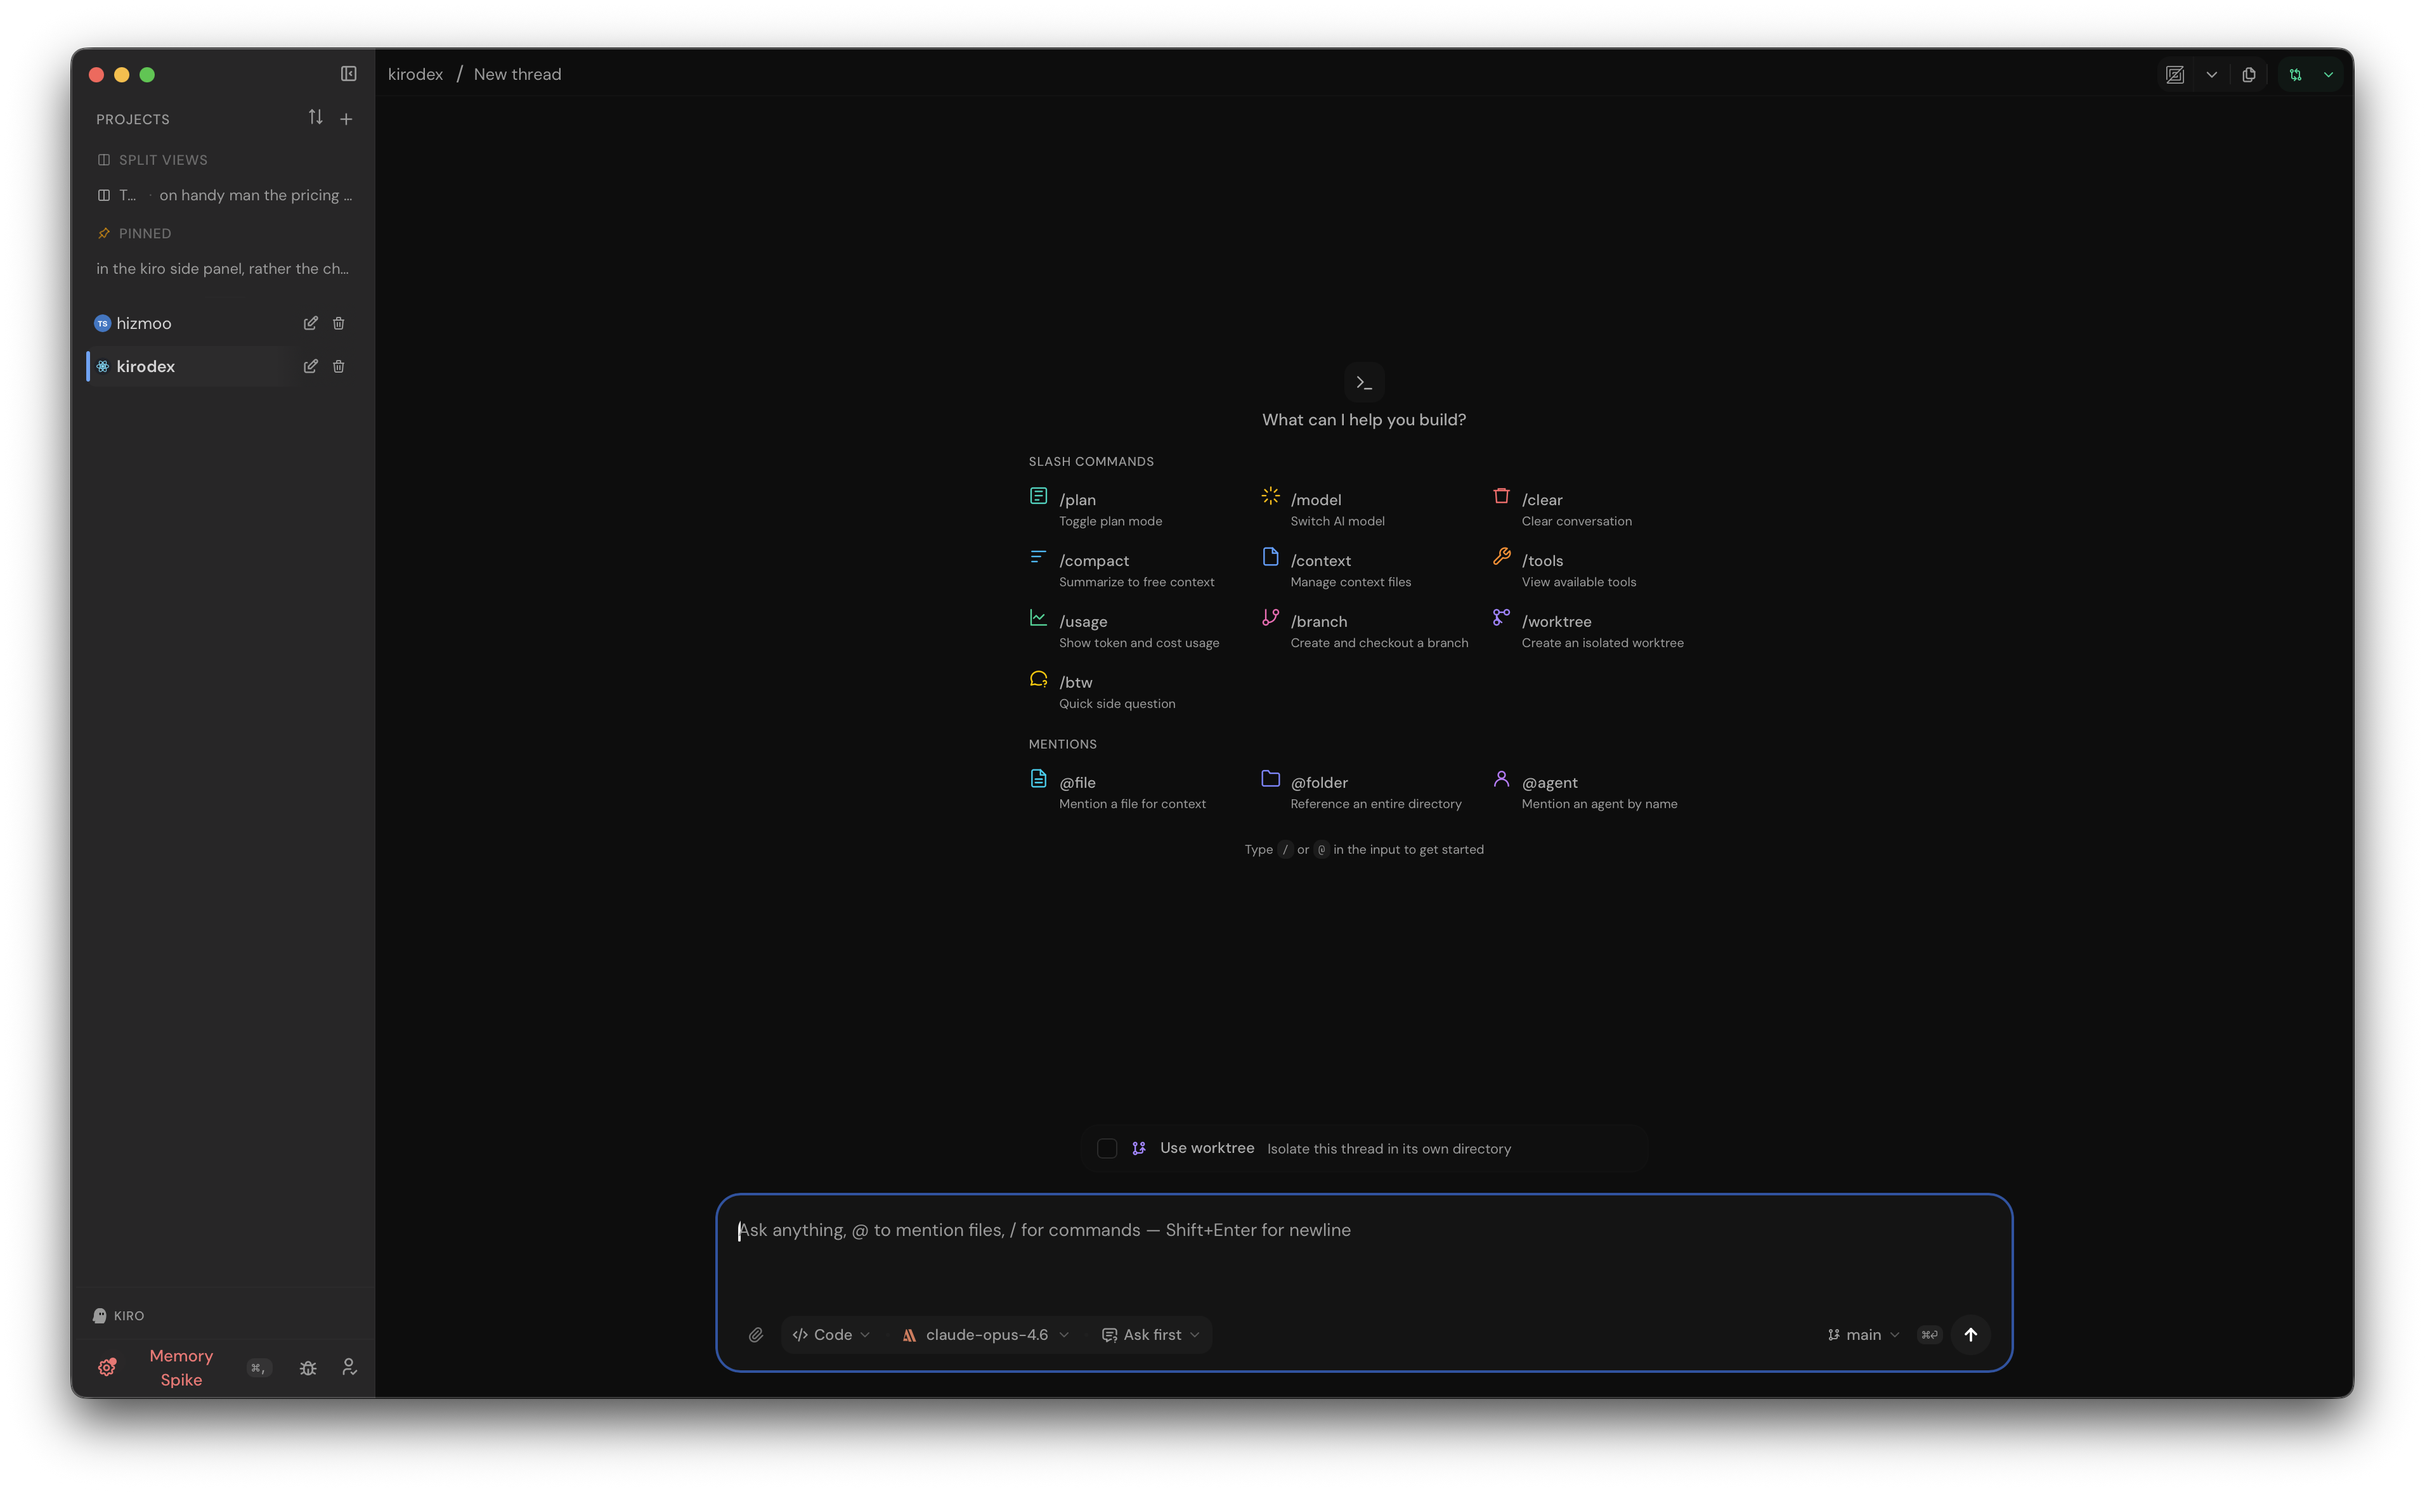
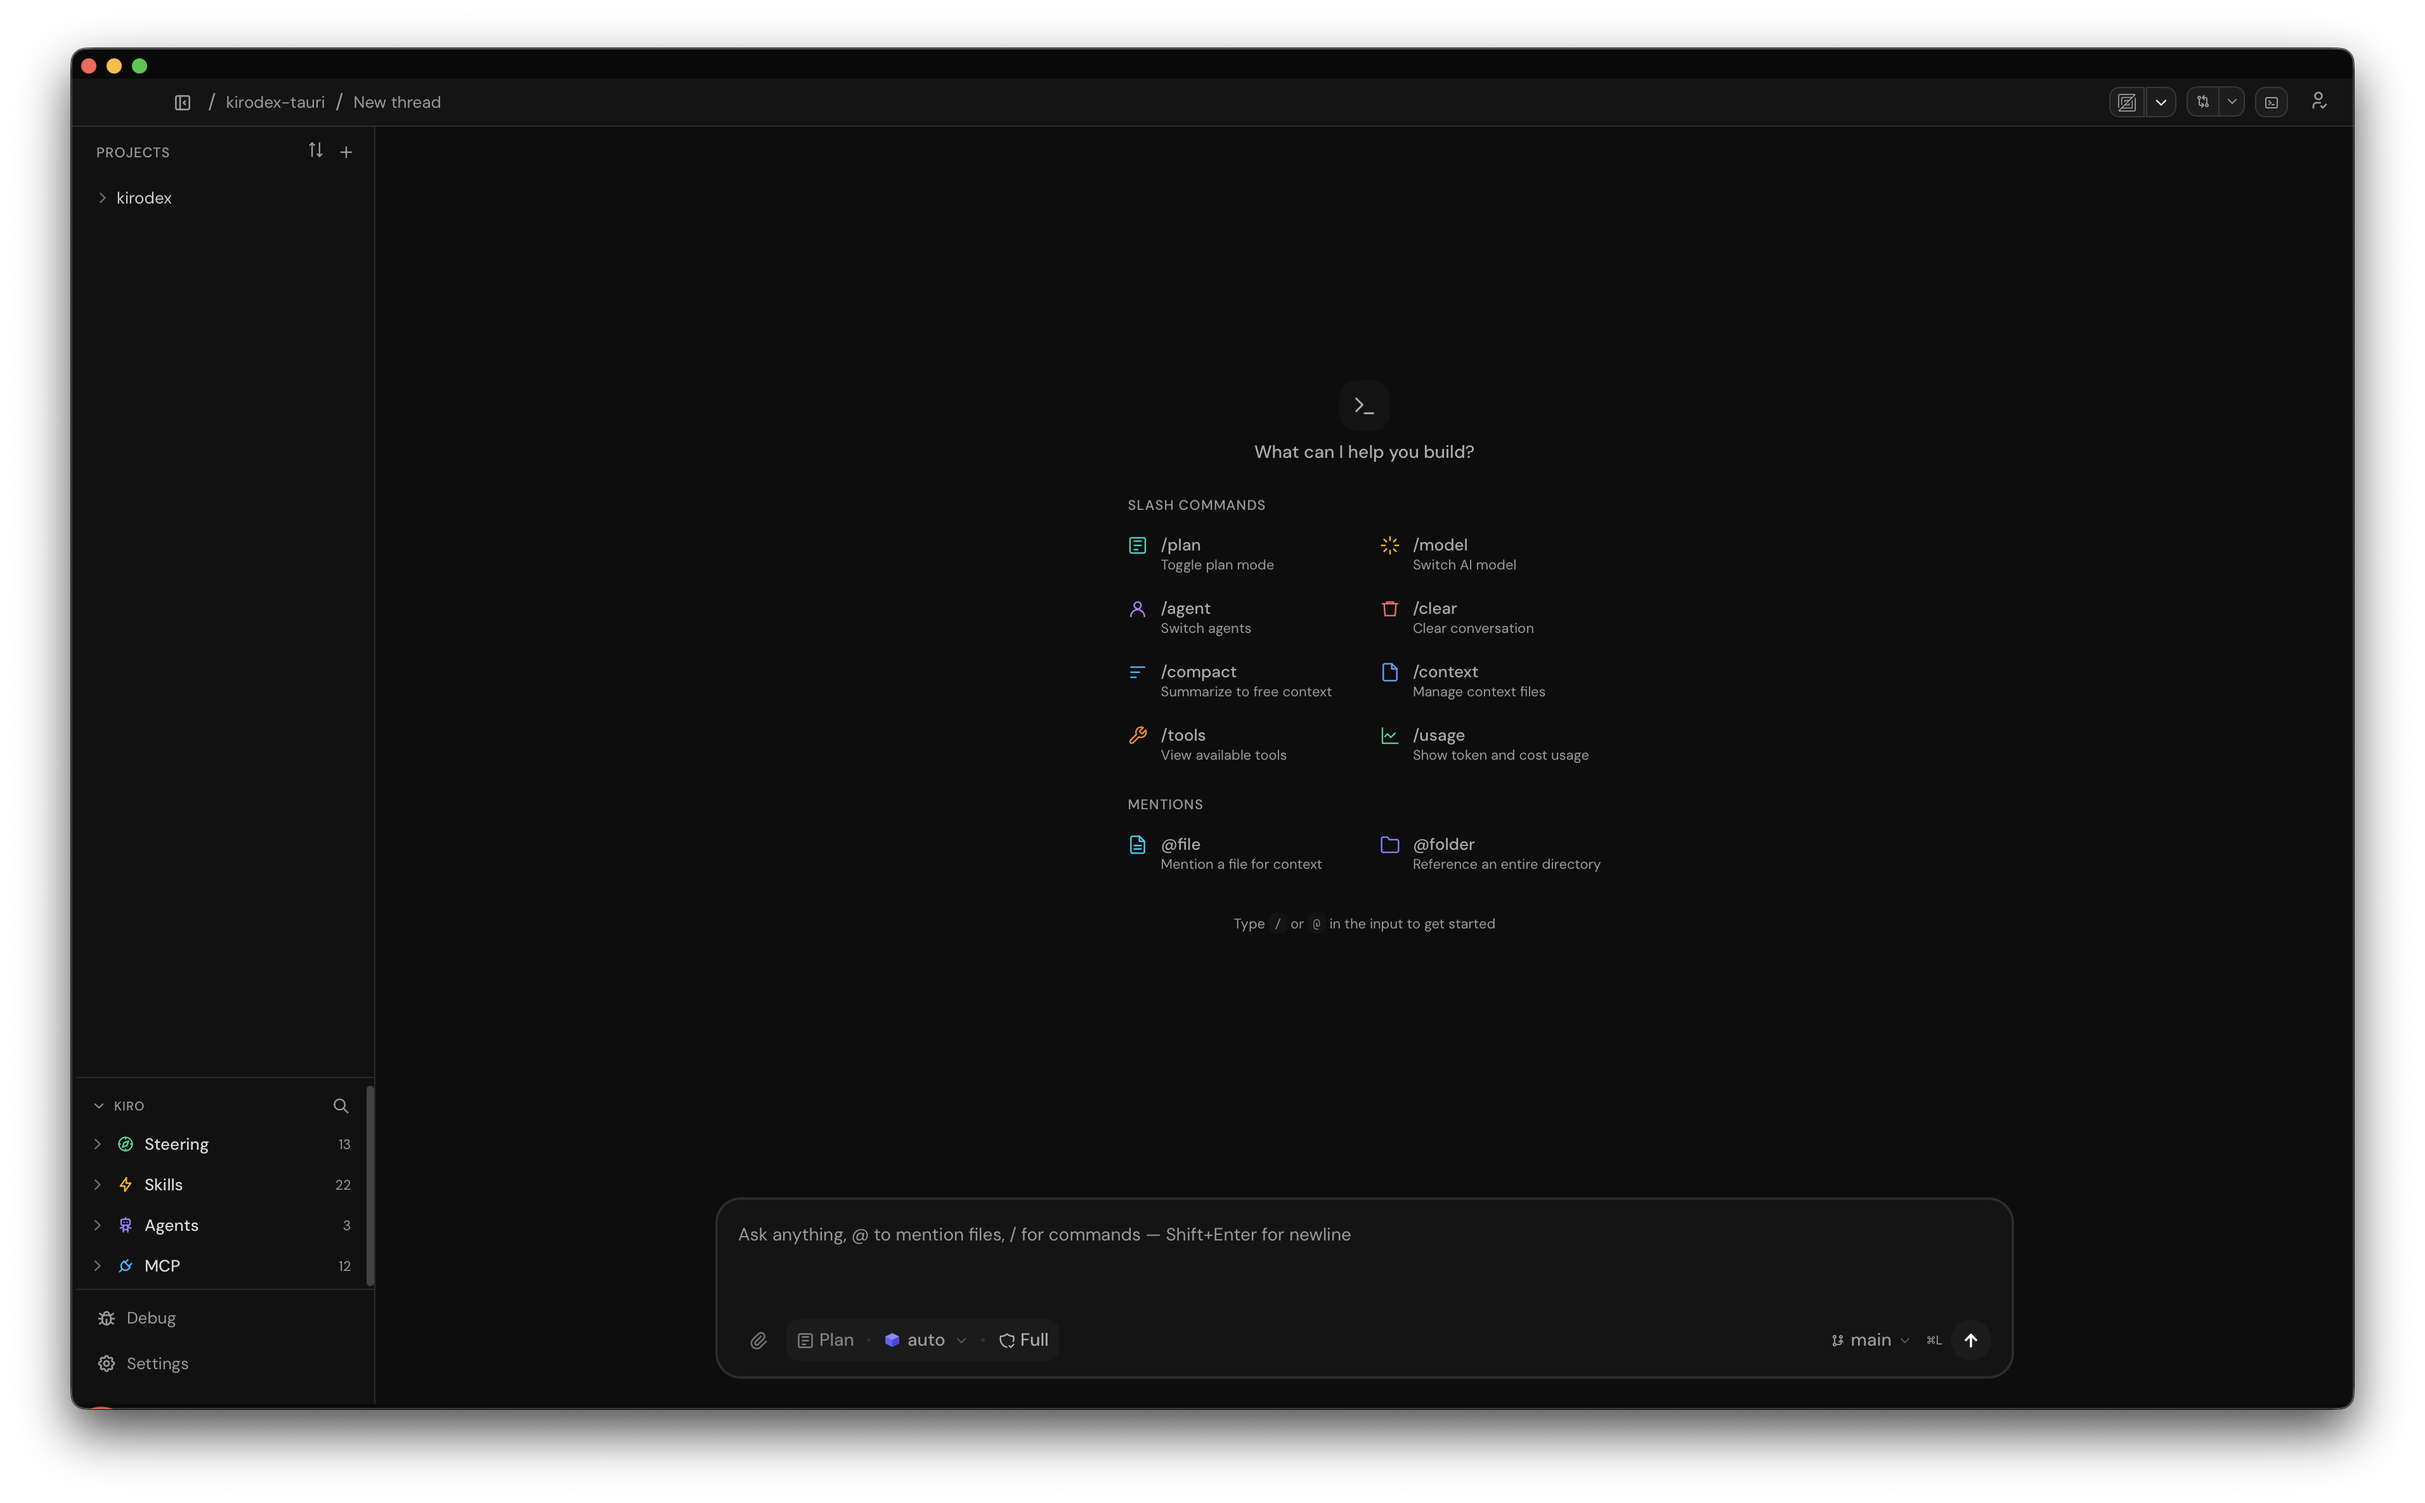
docs: update screenshots and simplify README to single image

diff --git a/activity.md b/activity.md
@@ -1,5 +1,12 @@
 # Activity Log
 
+## 2026-05-10 22:34 GST (Dubai)
+### Docs: Update screenshots and simplify README image layout
+
+Replaced both `screenshots/main.png` and `website/assets/main.png` with a cleaner new-thread screenshot. Removed the second image column from the README table so it shows only one hero image.
+
+**Modified:** `screenshots/main.png`, `website/assets/main.png`, `README.md`
+
 ## 2026-05-10 22:30 GST (Dubai)
 ### CI: Fix failing SidebarFooter test
 

diff --git a/README.md b/README.md
@@ -21,7 +21,6 @@
   <table>
     <tr>
       <td><img src="screenshots/main.png" alt="Kirodex main view" width="100%" /></td>
-      <td><img src="screenshots/chat-task-list-diff-panel.png" alt="Kirodex chat, task list, and diff panel" width="100%" /></td>
     </tr>
   </table>
 
